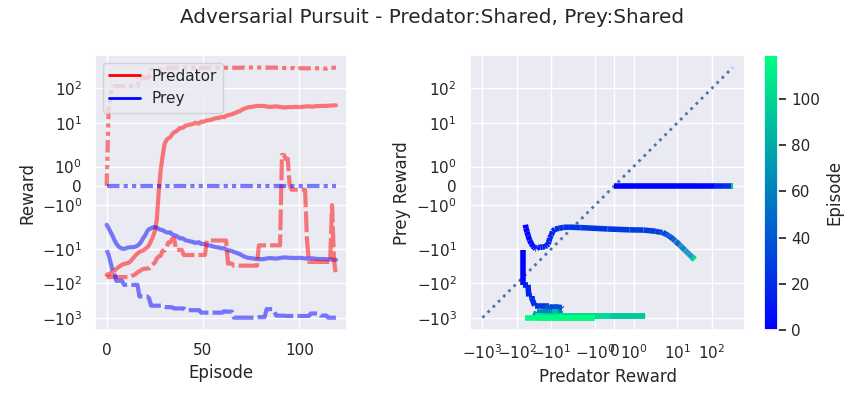
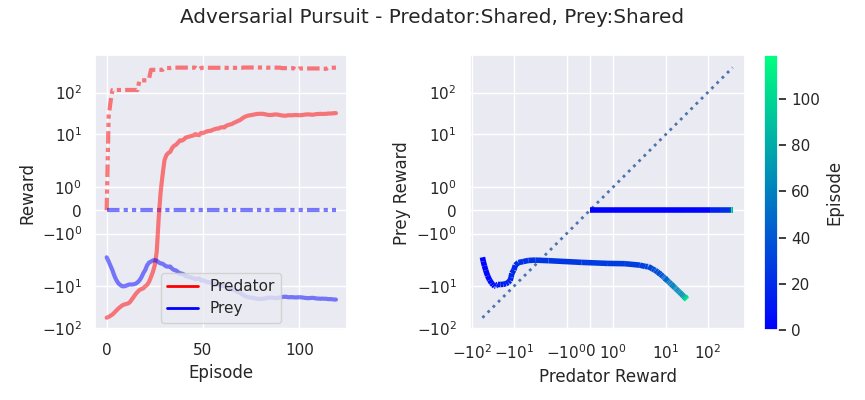
Modified and added new plots

diff --git a/lizards/analysis.py b/lizards/analysis.py
@@ -111,7 +111,7 @@ def sidebyside_reward_viz(ax, x_data1, y_data1, x_data2, y_data2, plot_title=Non
 
 def multi_sidebyside_reward_viz(ax, team_1, team_2, dts=None, plot_title=None, d1_label='Red Policy', d2_label='Blue Policy', d1_color='red', d2_color='blue'):
     if dts is None:
-        dts = ('mean', 'min', 'max')
+        dts = ('mean', 'max')
 
     for dist_type in dts:
         if dist_type == 'mean':
@@ -140,7 +140,7 @@ def comparative_reward_viz(fig, ax, team_1, team_2, dts=None, plot_title=None, x
                            ylabel='Blue Reward', start_offsets=(0, 0), end_offsets=(0, 0)):
     if dts is None:
         # dts = ['mean']
-        dts = ('mean', 'min', 'max')
+        dts = ('mean', 'max')
 
     xmin = None
     xmax = None
@@ -191,17 +191,56 @@ def comparative_reward_viz(fig, ax, team_1, team_2, dts=None, plot_title=None, x
 
 
 def main_plotting_fn(team_1, team_2, dtsl=None, dtsr=None, suptitle='None', start_offsets=(0, 0), end_offsets=(0, 0), team_1_name='Red',
+                     team_2_name='Blue', savename=None, same_fig=True):
+    if savename:
+        savename = ''.join(savename.split('.')[:-1])
+
+    if same_fig:
+        fig, (ax1, ax2) = plt.subplots(1, 2, figsize=(8.65, 4), gridspec_kw={'width_ratios': [1, 1.5]}, tight_layout=True)
+
+        multi_sidebyside_reward_viz(ax1, team_1, team_2, dts=dtsl, d1_label=team_1_name, d2_label=team_2_name)
+
+        comparative_reward_viz(fig, ax2, team_1, team_2, dts=dtsr, start_offsets=start_offsets, end_offsets=end_offsets,
+                               xlabel=f"{team_1_name} Reward", ylabel=f"{team_2_name} Reward")
+
+        fig.suptitle(suptitle)
+        if savename:
+            plt.savefig(f'{savename}.png')
+        plt.show()
+
+    else:
+        left_plotting_fn(team_1, team_2, dtsl=dtsl, dtsr=dtsr, suptitle=suptitle, start_offsets=start_offsets,
+                         end_offsets=end_offsets, team_1_name=team_1_name,
+                         team_2_name=team_2_name, savename=savename)
+        right_plotting_fn(team_1, team_2, dtsl=dtsl, dtsr=dtsr, suptitle=suptitle, start_offsets=start_offsets,
+                          end_offsets=end_offsets, team_1_name=team_1_name,
+                          team_2_name=team_2_name, savename=savename)
+
+
+def left_plotting_fn(team_1, team_2, dtsl=None, dtsr=None, suptitle='None', start_offsets=(0, 0), end_offsets=(0, 0), team_1_name='Red',
                      team_2_name='Blue', savename=None):
-    fig, (ax1, ax2) = plt.subplots(1, 2, figsize=(8.65, 4), gridspec_kw={'width_ratios': [1, 1.5]}, tight_layout=True)
+    fig, ax = plt.subplots(figsize=(4, 4), tight_layout=True)
 
-    multi_sidebyside_reward_viz(ax1, team_1, team_2, dts=dtsl, d1_label=team_1_name, d2_label=team_2_name)
-
-    comparative_reward_viz(fig, ax2, team_1, team_2, dts=dtsr, start_offsets=start_offsets, end_offsets=end_offsets,
-                           xlabel=f"{team_1_name} Reward", ylabel=f"{team_2_name} Reward")
+    multi_sidebyside_reward_viz(ax, team_1, team_2, dts=dtsl, d1_label=team_1_name, d2_label=team_2_name)
 
     fig.suptitle(suptitle)
     if savename:
-        plt.savefig(savename)
+        plt.savefig(f'{savename}-left.png')
+    plt.show()
+
+
+def right_plotting_fn(team_1, team_2, dtsl=None, dtsr=None, suptitle='None', start_offsets=(0, 0), end_offsets=(0, 0), team_1_name='Red',
+                     team_2_name='Blue', savename=None):
+    fig, ax = plt.subplots(figsize=(4.5, 3.5), tight_layout=True)
+
+    comparative_reward_viz(fig, ax, team_1, team_2, dts=dtsr, start_offsets=start_offsets, end_offsets=end_offsets,
+                           xlabel=f"{team_1_name} Reward", ylabel=f"{team_2_name} Reward")
+    ax.set_title(suptitle)
+    ax.get_xaxis().set_ticklabels([])
+    ax.get_yaxis().set_ticklabels([])
+
+    if savename:
+        plt.savefig(f'{savename}-right.png')
     plt.show()
 
 
@@ -209,33 +248,33 @@ def main():
     # Battle shared shared plots
     battle_shared_shared = get_all_result_data("result_data/battle_shared_shared/result.json")
     main_plotting_fn(battle_shared_shared['red'], battle_shared_shared['blue'],
-                     suptitle='Battle Env - Red:Shared, Blue:Shared', dtsr=['mean'], start_offsets=(2, -1), end_offsets=(-17, -1),
-                     savename='plots/Battle-ShSh.png')
+                     suptitle='Battle Env - Red:Shared, Blue:Shared', start_offsets=(2, -1), end_offsets=(-17, -1),
+                     savename='plots/Battle-ShSh.png', same_fig=True)
 
     # Battle shared split plots
     battle_shared_split = get_all_result_data("result_data/battle_shared_split/result.json")
     main_plotting_fn(battle_shared_split['red'], battle_shared_split['blue'],
-                     suptitle='Battle Env - Red:Split, Blue:Shared', dtsr=['mean'], start_offsets=(2, -1), end_offsets=(-17, -1),
-                     savename='plots/Battle-ShSp.png')
+                     suptitle='Battle Env - Red:Split, Blue:Shared', start_offsets=(2, -1), end_offsets=(-17, -1),
+                     savename='plots/Battle-ShSp.png', same_fig=True)
 
-    # Battle selfplay plots
-    battle_selfplay = get_result_data("result_data/battle_selfplay/result.json")
-    simple_reward_viz(list(range(len(battle_selfplay['all']))), battle_selfplay['all'],
-                      plot_title='Battle Env - Self-Play')
+    # # Battle selfplay plots
+    # battle_selfplay = get_result_data("result_data/battle_selfplay/result.json")
+    # simple_reward_viz(list(range(len(battle_selfplay['all']))), battle_selfplay['all'],
+    #                   plot_title='Battle Env - Self-Play')
 
-    # AP shared shared plots
-    ap_shared_shared = get_all_result_data("result_data/ap_shared_shared/result.json")
-    main_plotting_fn(ap_shared_shared['predator'], ap_shared_shared['prey'],
-                     suptitle='Adversarial Pursuit - Predator:Shared, Prey:Shared', start_offsets=(2, 2),
-                     end_offsets=(-40, -5), team_1_name='Predator', team_2_name='Prey', dtsr=['min', 'mean', 'max'],
-                     savename='plots/AP-ShSh.png')
-
-    # AP shared split plots
-    ap_shared_split = get_all_result_data("result_data/ap_shared_split/result.json")
-    main_plotting_fn(ap_shared_split['predator'], ap_shared_split['prey'],
-                     suptitle='Adversarial Pursuit - Predator:Split, Prey:Shared', start_offsets=(-50, -160),
-                     end_offsets=(-300, -170), team_1_name='Predator', team_2_name='Prey',
-                     savename='plots/AP-ShSp.png')
+    # # AP shared shared plots
+    # ap_shared_shared = get_all_result_data("result_data/ap_shared_shared/result.json")
+    # main_plotting_fn(ap_shared_shared['predator'], ap_shared_shared['prey'],
+    #                  suptitle='Adversarial Pursuit - Predator:Shared, Prey:Shared', start_offsets=(2, 2),
+    #                  end_offsets=(-40, -5), team_1_name='Predator', team_2_name='Prey', dtsl=['max', 'mean'], dtsr=['max', 'mean'],
+    #                  savename='plots/AP-ShSh.png', same_fig=False)
+    #
+    # # AP shared split plots
+    # ap_shared_split = get_all_result_data("result_data/ap_shared_split/result.json")
+    # main_plotting_fn(ap_shared_split['predator'], ap_shared_split['prey'],
+    #                  suptitle='Adversarial Pursuit - Predator:Split, Prey:Shared', start_offsets=(-50, -160),
+    #                  end_offsets=(-300, -170), team_1_name='Predator', team_2_name='Prey', dtsl=['max', 'mean'], dtsr=['max', 'mean'],
+    #                  savename='plots/AP-ShSp.png', same_fig=False)
 
 
 if __name__ == '__main__':

diff --git a/lizards/experiments.py b/lizards/experiments.py
@@ -169,7 +169,7 @@ def ray_train_generic(*args, end_render=True, savefile=False, policy_log_str=Non
     return checkpoint, trainer
 
 
-def ray_viz_generic(checkpoint, max_iter=10000, savefile=False, **kwargs):
+def ray_viz_generic(checkpoint, max_iter=20000, savefile=False, **kwargs):
     trainer_config = get_trainer_config(kwargs['env_name'], kwargs['policy_dict'], kwargs['policy_fn'],
                                         kwargs['env_config'],
                                         gpu=kwargs['gpu'])
@@ -298,7 +298,7 @@ def ray_TD_training_share_split_retooled():
 
 def ray_AP_training_share_split_retooled():
     env_name = 'adversarial-pursuit'
-    env_config = {'map_size': 40}
+    env_config = {'map_size': 40, 'max_cycles': 50000}
     predator_count = get_num_agents(env_directory[env_name], env_config)['predator']
     team_data = [TeamPolicyConfig('predator', method='split', count=predator_count), TeamPolicyConfig('prey')]
     # team_data = [TeamPolicyConfig('predator'), TeamPolicyConfig('prey')]
@@ -315,7 +315,7 @@ def ray_AP_training_share_split_retooled():
     }
 
     # ray_train_generic(**kwargs, end_render=True)
-    ray_viz_generic(
+    ray_viz_generic(savefile=True,
         checkpoint='/home/ben/Code/MultiAgent-PositronicLizards/lizards/logs/PPO_adversarial-pursuit_predator-split_120-iters__6cda8/checkpoint_000120/checkpoint-120',
         **kwargs)
 
@@ -540,7 +540,7 @@ def main():
     # ray_BF_training_share_split_retooled()
     # ray_BA_training_share_pretrained(checkpoint='/home/ben/Code/MultiAgent-PositronicLizards/lizards/logs/PPO_battle_100-iters__cad08/checkpoint_000100/checkpoint-100')
     # ray_BA_training_share_split_retooled()
-    # ray_AP_training_share_split_retooled()
+    ray_AP_training_share_split_retooled()
     print("\nDONE")
 
 
